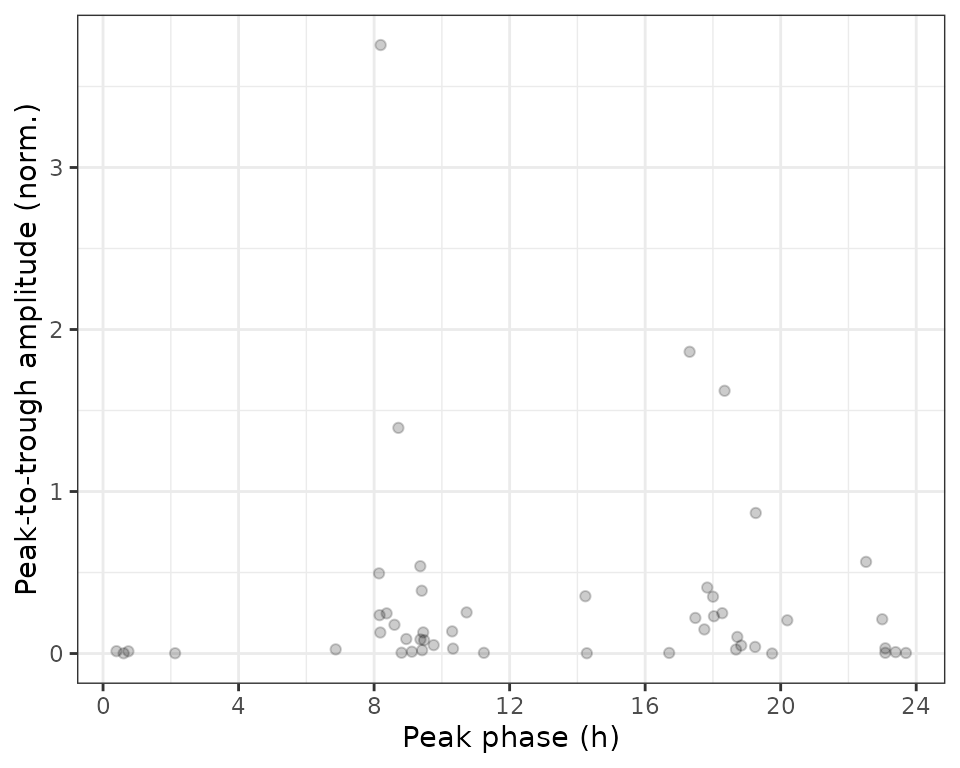
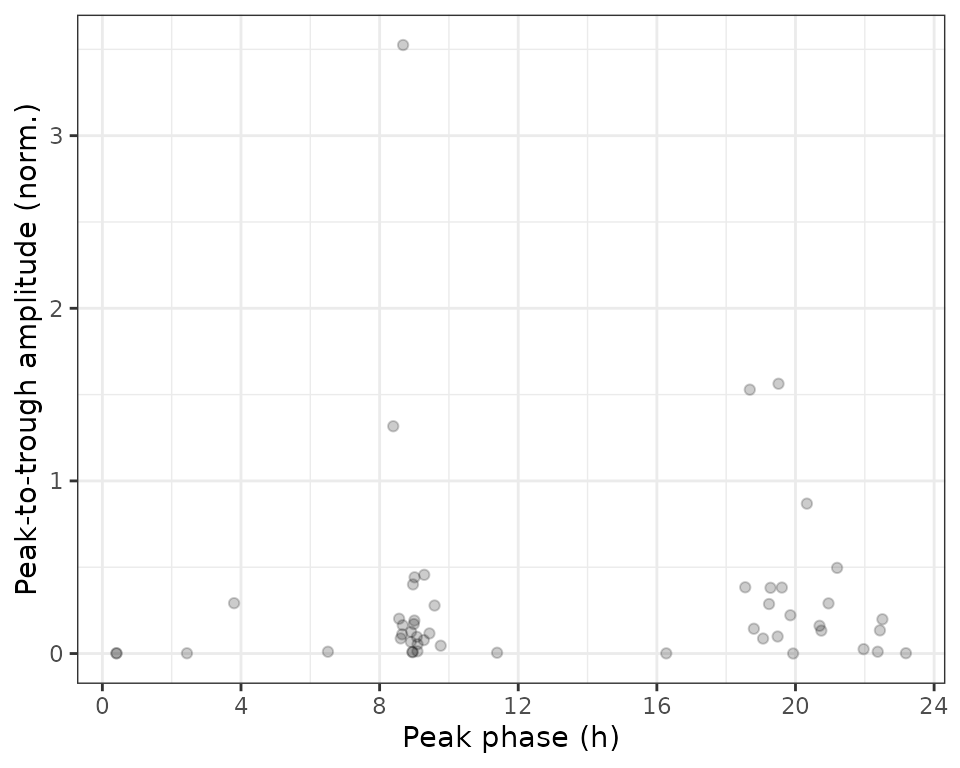
Built site for limorhyde2: 0.0.9@e673907

diff --git a/articles/uncertainty.html b/articles/uncertainty.html
@@ -33,7 +33,7 @@
       </button>
       <span class="navbar-brand">
         <a class="navbar-link" href="../index.html">limorhyde2</a>
-        <span class="version label label-default" data-toggle="tooltip" data-placement="bottom" title="">0.0.8</span>
+        <span class="version label label-default" data-toggle="tooltip" data-placement="bottom" title="">0.0.9</span>
       </span>
     </div>
 
@@ -205,17 +205,17 @@
 <code class="sourceCode R"><span class="va">measFitInts</span> <span class="op">=</span> <span class="fu"><a href="../reference/getExpectedMeasIntervals.html">getExpectedMeasIntervals</a></span><span class="op">(</span><span class="va">measFitSamps</span><span class="op">)</span>
 <span class="fu"><a href="https://rdrr.io/r/base/print.html" class="external-link">print</a></span><span class="op">(</span><span class="va">measFitInts</span>, nrows <span class="op">=</span> <span class="fl">10L</span><span class="op">)</span>
 <span class="co">#&gt;      time      cond feature symbol     lower     upper</span>
-<span class="co">#&gt;   1:    0 wild-type   13170    Dbp  9.264877  9.538147</span>
-<span class="co">#&gt;   2:    0 wild-type   12686 Elovl3 11.712048 11.940182</span>
-<span class="co">#&gt;   3:    0 wild-type   26897  Acot1 11.433505 11.669591</span>
-<span class="co">#&gt;   4:    0  knockout   13170    Dbp 11.808008 12.109973</span>
-<span class="co">#&gt;   5:    0  knockout   12686 Elovl3  9.723500  9.904368</span>
+<span class="co">#&gt;   1:    0 wild-type   13170    Dbp  9.233404  9.565491</span>
+<span class="co">#&gt;   2:    0 wild-type   12686 Elovl3 11.709998 11.951344</span>
+<span class="co">#&gt;   3:    0 wild-type   26897  Acot1 11.422795 11.675348</span>
+<span class="co">#&gt;   4:    0  knockout   13170    Dbp 11.794823 12.124659</span>
+<span class="co">#&gt;   5:    0  knockout   12686 Elovl3  9.707732  9.927886</span>
 <span class="co">#&gt;  ---                                                  </span>
-<span class="co">#&gt; 290:   24 wild-type   12686 Elovl3 11.712048 11.940182</span>
-<span class="co">#&gt; 291:   24 wild-type   26897  Acot1 11.433505 11.669591</span>
-<span class="co">#&gt; 292:   24  knockout   13170    Dbp 11.808008 12.109973</span>
-<span class="co">#&gt; 293:   24  knockout   12686 Elovl3  9.723500  9.904368</span>
-<span class="co">#&gt; 294:   24  knockout   26897  Acot1  9.036087  9.230412</span></code></pre></div>
+<span class="co">#&gt; 290:   24 wild-type   12686 Elovl3 11.709998 11.951344</span>
+<span class="co">#&gt; 291:   24 wild-type   26897  Acot1 11.422795 11.675348</span>
+<span class="co">#&gt; 292:   24  knockout   13170    Dbp 11.794823 12.124659</span>
+<span class="co">#&gt; 293:   24  knockout   12686 Elovl3  9.707732  9.927886</span>
+<span class="co">#&gt; 294:   24  knockout   26897  Acot1  9.008638  9.233237</span></code></pre></div>
 <p>It’s always a good idea to also calculate the posterior mean fitted curves.</p>
 <div class="sourceCode" id="cb7"><pre class="downlit sourceCode r">
 <code class="sourceCode R"><span class="va">measFitMean</span> <span class="op">=</span> <span class="fu"><a href="../reference/getExpectedMeas.html">getExpectedMeas</a></span><span class="op">(</span><span class="va">fit</span>, times <span class="op">=</span> <span class="va">times</span>, features <span class="op">=</span> <span class="va">genes</span><span class="op">$</span><span class="va">id</span><span class="op">)</span>
@@ -313,17 +313,17 @@
 <code class="sourceCode R"><span class="va">rhyStatsInts</span> <span class="op">=</span> <span class="fu"><a href="../reference/getStatsIntervals.html">getStatsIntervals</a></span><span class="op">(</span><span class="va">rhyStatsSamps</span><span class="op">)</span>
 <span class="fu"><a href="https://rdrr.io/r/base/print.html" class="external-link">print</a></span><span class="op">(</span><span class="va">rhyStatsInts</span>, nrows <span class="op">=</span> <span class="fl">10L</span><span class="op">)</span>
 <span class="co">#&gt;          cond feature       statistic      lower      upper</span>
-<span class="co">#&gt;  1: wild-type   13170      peak_value 14.9173520 15.2200466</span>
-<span class="co">#&gt;  2: wild-type   12686      peak_value 11.7151501 11.9406772</span>
-<span class="co">#&gt;  3: wild-type   26897      peak_value 12.2457363 12.5654355</span>
-<span class="co">#&gt;  4:  knockout   13170      peak_value 14.1594493 14.4428868</span>
-<span class="co">#&gt;  5:  knockout   12686      peak_value 10.1737541 10.4395112</span>
+<span class="co">#&gt;  1: wild-type   13170      peak_value 14.8875425 15.2247879</span>
+<span class="co">#&gt;  2: wild-type   12686      peak_value 11.7122222 11.9527091</span>
+<span class="co">#&gt;  3: wild-type   26897      peak_value 12.2431434 12.6095792</span>
+<span class="co">#&gt;  4:  knockout   13170      peak_value 14.1446489 14.4666946</span>
+<span class="co">#&gt;  5:  knockout   12686      peak_value 10.1660549 10.4678090</span>
 <span class="co">#&gt; ---                                                        </span>
-<span class="co">#&gt; 14: wild-type   12686 peak_trough_amp  2.7919175  3.1746157</span>
-<span class="co">#&gt; 15: wild-type   26897 peak_trough_amp  1.3339754  2.0103134</span>
-<span class="co">#&gt; 16:  knockout   13170 peak_trough_amp  2.3729890  2.8259867</span>
-<span class="co">#&gt; 17:  knockout   12686 peak_trough_amp  0.4218476  0.7843328</span>
-<span class="co">#&gt; 18:  knockout   26897 peak_trough_amp  0.3025411  0.6903593</span>
+<span class="co">#&gt; 14: wild-type   12686 peak_trough_amp  2.7583816  3.1961593</span>
+<span class="co">#&gt; 15: wild-type   26897 peak_trough_amp  1.3165677  2.0820149</span>
+<span class="co">#&gt; 16:  knockout   13170 peak_trough_amp  2.3338840  2.8714960</span>
+<span class="co">#&gt; 17:  knockout   12686 peak_trough_amp  0.4053327  0.8133666</span>
+<span class="co">#&gt; 18:  knockout   26897 peak_trough_amp  0.2871294  0.7179791</span>
 
 <span class="va">diffRhyStatsInts</span> <span class="op">=</span> <span class="fu"><a href="../reference/getStatsIntervals.html">getStatsIntervals</a></span><span class="op">(</span><span class="va">diffRhyStatsSamps</span><span class="op">)</span>
 <span class="fu"><a href="https://rdrr.io/r/base/print.html" class="external-link">print</a></span><span class="op">(</span><span class="va">diffRhyStatsInts</span>, nrows <span class="op">=</span> <span class="fl">10L</span><span class="op">)</span>
@@ -331,9 +331,9 @@
 <span class="co">#&gt; 1: wild-type knockout   12686           diff_mesor -0.4215416 -0.4215416</span>
 <span class="co">#&gt; 2: wild-type knockout   13170           diff_mesor  1.1950262  1.1950262</span>
 <span class="co">#&gt; 3: wild-type knockout   26897           diff_mesor -2.4048158 -2.4048158</span>
-<span class="co">#&gt; 4: wild-type knockout   12686 diff_peak_trough_amp -2.6906488 -2.1714818</span>
-<span class="co">#&gt; 5: wild-type knockout   13170 diff_peak_trough_amp -3.7882613 -2.9900856</span>
-<span class="co">#&gt; 6: wild-type knockout   26897 diff_peak_trough_amp -1.5602198 -0.8128997</span></code></pre></div>
+<span class="co">#&gt; 4: wild-type knockout   12686 diff_peak_trough_amp -2.7171127 -2.1598489</span>
+<span class="co">#&gt; 5: wild-type knockout   13170 diff_peak_trough_amp -3.8854777 -2.9242634</span>
+<span class="co">#&gt; 6: wild-type knockout   26897 diff_peak_trough_amp -1.6016674 -0.7528489</span></code></pre></div>
 </div>
   </div>
 

diff --git a/articles/rhythmicity.html b/articles/rhythmicity.html
@@ -33,7 +33,7 @@
       </button>
       <span class="navbar-brand">
         <a class="navbar-link" href="../index.html">limorhyde2</a>
-        <span class="version label label-default" data-toggle="tooltip" data-placement="bottom" title="">0.0.8</span>
+        <span class="version label label-default" data-toggle="tooltip" data-placement="bottom" title="">0.0.9</span>
       </span>
     </div>
 
@@ -181,28 +181,28 @@
 <div class="sourceCode" id="cb6"><pre class="downlit sourceCode r">
 <code class="sourceCode R"><span class="fu"><a href="https://rdrr.io/r/base/print.html" class="external-link">print</a></span><span class="op">(</span><span class="va">rhyStats</span><span class="op">[</span><span class="fu"><a href="https://Rdatatable.gitlab.io/data.table/reference/setorder.html" class="external-link">order</a></span><span class="op">(</span><span class="op">-</span><span class="va">peak_trough_amp</span><span class="op">)</span><span class="op">]</span>, nrows <span class="op">=</span> <span class="fl">10L</span><span class="op">)</span>
 <span class="co">#&gt;       feature peak_phase peak_value trough_phase trough_value peak_trough_amp</span>
-<span class="co">#&gt;  1:     13170  8.1935432  10.402785    23.083237     6.646895    3.7558902049</span>
-<span class="co">#&gt;  2:     13088 17.3125618  10.537264     9.237815     8.674852    1.8624115294</span>
-<span class="co">#&gt;  3:    266645 18.3447383   9.775430     8.906014     8.153673    1.6217570599</span>
-<span class="co">#&gt;  4:     13869  8.7168031   8.585007    18.044704     7.192154    1.3928531097</span>
-<span class="co">#&gt;  5:     68396 19.2644734   9.639321     8.736966     8.771817    0.8675034661</span>
+<span class="co">#&gt;  1:     13170  8.6775145  10.290602    22.346123     6.765579     3.525022206</span>
+<span class="co">#&gt;  2:    266645 19.5106275   9.800471     8.768400     8.237576     1.562895177</span>
+<span class="co">#&gt;  3:     13088 18.6818895  10.412693     9.015083     8.883997     1.528695535</span>
+<span class="co">#&gt;  4:     13869  8.3932348   8.524375    18.785793     7.207670     1.316705132</span>
+<span class="co">#&gt;  5:     68396 20.3289764   9.678209     8.714920     8.809740     0.868468524</span>
 <span class="co">#&gt; ---                                                                          </span>
-<span class="co">#&gt; 46:     14616 23.6961643   5.422345     6.683518     5.418776    0.0035688775</span>
-<span class="co">#&gt; 47:     18994 14.2784936   5.601345    22.177204     5.599508    0.0018374833</span>
-<span class="co">#&gt; 48: 100009600  2.1265901   5.126086     9.417707     5.124330    0.0017555339</span>
-<span class="co">#&gt; 49:     12613  0.6076071   5.049669     8.810137     5.048225    0.0014443188</span>
-<span class="co">#&gt; 50: 115485688 19.7468356   4.235779     1.518992     4.235585    0.0001938504</span>
+<span class="co">#&gt; 46: 100009600  2.4406727   5.125981    18.711851     5.124404     0.001577536</span>
+<span class="co">#&gt; 47:     12613  0.4067764   5.049751     9.355932     5.048220     0.001530589</span>
+<span class="co">#&gt; 48:     14616  0.4067829   5.420731    17.491505     5.419337     0.001394137</span>
+<span class="co">#&gt; 49:     23801 16.2711757   5.371221     9.355932     5.370178     0.001043270</span>
+<span class="co">#&gt; 50: 115485688 19.9322039   4.235861    11.796608     4.235586     0.000275261</span>
 <span class="co">#&gt;        mesor</span>
-<span class="co">#&gt;  1: 8.478881</span>
-<span class="co">#&gt;  2: 9.761782</span>
-<span class="co">#&gt;  3: 9.092473</span>
-<span class="co">#&gt;  4: 7.853253</span>
-<span class="co">#&gt;  5: 9.283822</span>
+<span class="co">#&gt;  1: 8.478849</span>
+<span class="co">#&gt;  2: 9.092471</span>
+<span class="co">#&gt;  3: 9.761742</span>
+<span class="co">#&gt;  4: 7.853238</span>
+<span class="co">#&gt;  5: 9.283828</span>
 <span class="co">#&gt; ---         </span>
-<span class="co">#&gt; 46: 5.420228</span>
-<span class="co">#&gt; 47: 5.600595</span>
-<span class="co">#&gt; 48: 5.125045</span>
-<span class="co">#&gt; 49: 5.048962</span>
+<span class="co">#&gt; 46: 5.125043</span>
+<span class="co">#&gt; 47: 5.048960</span>
+<span class="co">#&gt; 48: 5.420226</span>
+<span class="co">#&gt; 49: 5.370578</span>
 <span class="co">#&gt; 50: 4.235683</span>
 
 <span class="fu"><a href="https://ggplot2.tidyverse.org/reference/ggplot.html" class="external-link">ggplot</a></span><span class="op">(</span><span class="va">rhyStats</span><span class="op">)</span> <span class="op">+</span>
@@ -225,17 +225,17 @@
 <span class="va">measFit</span><span class="op">[</span><span class="va">genes</span>, <span class="va">symbol</span> <span class="op">:=</span> <span class="va">i.symbol</span>, on <span class="op">=</span> <span class="fu">.</span><span class="op">(</span>feature <span class="op">=</span> <span class="va">id</span><span class="op">)</span><span class="op">]</span>
 <span class="fu"><a href="https://rdrr.io/r/base/print.html" class="external-link">print</a></span><span class="op">(</span><span class="va">measFit</span>, nrows <span class="op">=</span> <span class="fl">10L</span><span class="op">)</span>
 <span class="co">#&gt;      time feature     value  symbol</span>
-<span class="co">#&gt;   1:  0.0   13088 10.048449 Cyp2b10</span>
-<span class="co">#&gt;   2:  0.0   13170  6.726346     Dbp</span>
-<span class="co">#&gt;   3:  0.0   13869  7.655222   Erbb4</span>
-<span class="co">#&gt;   4:  0.5   13088 10.057168 Cyp2b10</span>
-<span class="co">#&gt;   5:  0.5   13170  6.841706     Dbp</span>
+<span class="co">#&gt;   1:  0.0   13088 10.146744 Cyp2b10</span>
+<span class="co">#&gt;   2:  0.0   13170  6.949242     Dbp</span>
+<span class="co">#&gt;   3:  0.0   13869  7.631226   Erbb4</span>
+<span class="co">#&gt;   4:  0.5   13088 10.108186 Cyp2b10</span>
+<span class="co">#&gt;   5:  0.5   13170  7.081859     Dbp</span>
 <span class="co">#&gt;  ---                               </span>
-<span class="co">#&gt; 143: 23.5   13170  6.662765     Dbp</span>
-<span class="co">#&gt; 144: 23.5   13869  7.611846   Erbb4</span>
-<span class="co">#&gt; 145: 24.0   13088 10.048449 Cyp2b10</span>
-<span class="co">#&gt; 146: 24.0   13170  6.726346     Dbp</span>
-<span class="co">#&gt; 147: 24.0   13869  7.655222   Erbb4</span></code></pre></div>
+<span class="co">#&gt; 143: 23.5   13170  6.853361     Dbp</span>
+<span class="co">#&gt; 144: 23.5   13869  7.570816   Erbb4</span>
+<span class="co">#&gt; 145: 24.0   13088 10.146744 Cyp2b10</span>
+<span class="co">#&gt; 146: 24.0   13170  6.949242     Dbp</span>
+<span class="co">#&gt; 147: 24.0   13869  7.631226   Erbb4</span></code></pre></div>
 <p>Next we combine the observed expression data and metadata. The curves show how <code>limorhyde2</code> is able to fit non-sinusoidal rhythms.</p>
 <div class="sourceCode" id="cb8"><pre class="downlit sourceCode r">
 <code class="sourceCode R"><span class="va">measObs</span> <span class="op">=</span> <span class="fu"><a href="../reference/mergeMeasMeta.html">mergeMeasMeta</a></span><span class="op">(</span><span class="va">y</span>, <span class="va">metadata</span>, features <span class="op">=</span> <span class="va">genes</span><span class="op">$</span><span class="va">id</span><span class="op">)</span>

diff --git a/reference/getModelFit.html b/reference/getModelFit.html
@@ -18,7 +18,7 @@ moderate the fits using getPosteriorFit()."><!-- mathjax --><script src="https:/
       </button>
       <span class="navbar-brand">
         <a class="navbar-link" href="../index.html">limorhyde2</a>
-        <span class="version label label-default" data-toggle="tooltip" data-placement="bottom" title="">0.0.8</span>
+        <span class="version label label-default" data-toggle="tooltip" data-placement="bottom" title="">0.0.9</span>
       </span>
     </div>
 
@@ -78,7 +78,9 @@ moderate the fits using <code><a href="getPosteriorFit.html">getPosteriorFit()</
   <span class="va">y</span>,
   <span class="va">metadata</span>,
   period <span class="op">=</span> <span class="fl">24</span>,
-  nKnots <span class="op">=</span> <span class="fl">4L</span>,
+  nKnots <span class="op">=</span> <span class="fl">3L</span>,
+  degree <span class="op">=</span> <span class="kw">if</span> <span class="op">(</span><span class="va">nKnots</span> <span class="op">&gt;</span> <span class="fl">2</span><span class="op">)</span> <span class="fl">3L</span> <span class="kw">else</span> <span class="fl">2L</span>,
+  sinusoid <span class="op">=</span> <span class="cn">FALSE</span>,
   timeColname <span class="op">=</span> <span class="st">"time"</span>,
   condColname <span class="op">=</span> <span class="cn">NULL</span>,
   covarColnames <span class="op">=</span> <span class="cn">NULL</span>,
@@ -106,8 +108,13 @@ names are ignored.</p></dd>
 units as the values in the <code>timeColname</code> column.</p></dd>
 <dt>nKnots</dt>
 <dd><p>Number of internal knots for the periodic spline for the time
-variable. Use <code>NULL</code> to fit a cosinor-based model instead of a spline-based
-model.</p></dd>
+variable.</p></dd>
+<dt>degree</dt>
+<dd><p>Integer indicating degree of the piecewise polynomial for the
+spline.</p></dd>
+<dt>sinusoid</dt>
+<dd><p>Logical indicating whether to fit a cosinor-based model
+instead of a spline-based model.</p></dd>
 <dt>timeColname</dt>
 <dd><p>String indicating the column in <code>metadata</code> containing the
 time at which each sample was acquired.</p></dd>
@@ -154,7 +161,9 @@ for each shifted model.</p></li>
 <li><p><code>period</code>: As supplied above.</p></li>
 <li><p><code>conds</code>: If <code>condColname</code> is not <code>NULL</code>, a vector of unique values of
 the condition variable.</p></li>
-<li><p><code>nKnots</code>: Number of knots, where 2 indicates a cosinor-based model.</p></li>
+<li><p><code>nKnots</code>: Number of knots.</p></li>
+<li><p><code>degree</code>: As supplied above.</p></li>
+<li><p><code>sinusoid</code>: As supplied above.</p></li>
 <li><p><code>nConds</code>: Number of conditions.</p></li>
 <li><p><code>nCovs</code>: Number of covariates.</p></li>
 <li><p><code>lmFits</code>: If <code>keepLmFits</code> is <code>TRUE</code>, a list of objects from <code>limma</code> or

diff --git a/reference/getExpectedMeasIntervals.html b/reference/getExpectedMeasIntervals.html
@@ -18,7 +18,7 @@ expected measurements from fitted models."><!-- mathjax --><script src="https://
       </button>
       <span class="navbar-brand">
         <a class="navbar-link" href="../index.html">limorhyde2</a>
-        <span class="version label label-default" data-toggle="tooltip" data-placement="bottom" title="">0.0.8</span>
+        <span class="version label label-default" data-toggle="tooltip" data-placement="bottom" title="">0.0.9</span>
       </span>
     </div>
 
@@ -74,7 +74,7 @@ expected measurements from fitted models.</p>
     </div>
 
     <div id="ref-usage">
-    <div class="sourceCode"><pre class="sourceCode r"><code><span class="fu">getExpectedMeasIntervals</span><span class="op">(</span><span class="va">expectedMeas</span>, mass <span class="op">=</span> <span class="fl">0.9</span>, method <span class="op">=</span> <span class="fu"><a href="https://rdrr.io/r/base/c.html" class="external-link">c</a></span><span class="op">(</span><span class="st">"eti"</span>, <span class="st">"hdi"</span><span class="op">)</span><span class="op">)</span></code></pre></div>
+    <div class="sourceCode"><pre class="sourceCode r"><code><span class="fu">getExpectedMeasIntervals</span><span class="op">(</span><span class="va">expectedMeas</span>, mass <span class="op">=</span> <span class="fl">0.95</span>, method <span class="op">=</span> <span class="fu"><a href="https://rdrr.io/r/base/c.html" class="external-link">c</a></span><span class="op">(</span><span class="st">"eti"</span>, <span class="st">"hdi"</span><span class="op">)</span><span class="op">)</span></code></pre></div>
     </div>
 
     <div id="arguments">

diff --git a/reference/getStatsIntervals.html b/reference/getStatsIntervals.html
@@ -18,7 +18,7 @@ properties of fitted curves."><!-- mathjax --><script src="https://cdnjs.cloudfl
       </button>
       <span class="navbar-brand">
         <a class="navbar-link" href="../index.html">limorhyde2</a>
-        <span class="version label label-default" data-toggle="tooltip" data-placement="bottom" title="">0.0.8</span>
+        <span class="version label label-default" data-toggle="tooltip" data-placement="bottom" title="">0.0.9</span>
       </span>
     </div>
 
@@ -74,7 +74,7 @@ properties of fitted curves.</p>
     </div>
 
     <div id="ref-usage">
-    <div class="sourceCode"><pre class="sourceCode r"><code><span class="fu">getStatsIntervals</span><span class="op">(</span><span class="va">posteriorStats</span>, mass <span class="op">=</span> <span class="fl">0.9</span>, method <span class="op">=</span> <span class="fu"><a href="https://rdrr.io/r/base/c.html" class="external-link">c</a></span><span class="op">(</span><span class="st">"eti"</span>, <span class="st">"hdi"</span><span class="op">)</span><span class="op">)</span></code></pre></div>
+    <div class="sourceCode"><pre class="sourceCode r"><code><span class="fu">getStatsIntervals</span><span class="op">(</span><span class="va">posteriorStats</span>, mass <span class="op">=</span> <span class="fl">0.95</span>, method <span class="op">=</span> <span class="fu"><a href="https://rdrr.io/r/base/c.html" class="external-link">c</a></span><span class="op">(</span><span class="st">"eti"</span>, <span class="st">"hdi"</span><span class="op">)</span><span class="op">)</span></code></pre></div>
     </div>
 
     <div id="arguments">

diff --git a/news/index.html b/news/index.html
@@ -17,7 +17,7 @@
       </button>
       <span class="navbar-brand">
         <a class="navbar-link" href="../index.html">limorhyde2</a>
-        <span class="version label label-default" data-toggle="tooltip" data-placement="bottom" title="">0.0.8</span>
+        <span class="version label label-default" data-toggle="tooltip" data-placement="bottom" title="">0.0.9</span>
       </span>
     </div>
 
@@ -66,6 +66,10 @@
       <small>Source: <a href="https://github.com/hugheylab/limorhyde2/blob/HEAD/NEWS.md" class="external-link"><code>NEWS.md</code></a></small>
     </div>
 
+    <div class="section level2">
+<h2 class="page-header" data-toc-text="0.0.9" id="limorhyde2-009">limorhyde2 0.0.9<a class="anchor" aria-label="anchor" href="#limorhyde2-009"></a></h2>
+<ul><li>Enabled spline fit with fewer knots and customizable degree.</li>
+</ul></div>
     <div class="section level2">
 <h2 class="page-header" data-toc-text="0.0.8" id="limorhyde2-008">limorhyde2 0.0.8<a class="anchor" aria-label="anchor" href="#limorhyde2-008"></a></h2>
 <ul><li>Matched style to lab standard.</li>

diff --git a/reference/GSE34018.html b/reference/GSE34018.html
@@ -21,7 +21,7 @@ to use limorhyde2."><!-- mathjax --><script src="https://cdnjs.cloudflare.com/aj
       </button>
       <span class="navbar-brand">
         <a class="navbar-link" href="../index.html">limorhyde2</a>
-        <span class="version label label-default" data-toggle="tooltip" data-placement="bottom" title="">0.0.8</span>
+        <span class="version label label-default" data-toggle="tooltip" data-placement="bottom" title="">0.0.9</span>
       </span>
     </div>
 

diff --git a/reference/GSE54650.html b/reference/GSE54650.html
@@ -20,7 +20,7 @@ useful for examples of how to use limorhyde2."><!-- mathjax --><script src="http
       </button>
       <span class="navbar-brand">
         <a class="navbar-link" href="../index.html">limorhyde2</a>
-        <span class="version label label-default" data-toggle="tooltip" data-placement="bottom" title="">0.0.8</span>
+        <span class="version label label-default" data-toggle="tooltip" data-placement="bottom" title="">0.0.9</span>
       </span>
     </div>
 

diff --git a/reference/getDiffRhythmStats.html b/reference/getDiffRhythmStats.html
@@ -18,7 +18,7 @@ given pair of conditions."><!-- mathjax --><script src="https://cdnjs.cloudflare
       </button>
       <span class="navbar-brand">
         <a class="navbar-link" href="../index.html">limorhyde2</a>
-        <span class="version label label-default" data-toggle="tooltip" data-placement="bottom" title="">0.0.8</span>
+        <span class="version label label-default" data-toggle="tooltip" data-placement="bottom" title="">0.0.9</span>
       </span>
     </div>
 

diff --git a/reference/getExpectedMeas.html b/reference/getExpectedMeas.html
@@ -19,7 +19,7 @@ conditions and covariates (if they exist)."><!-- mathjax --><script src="https:/
       </button>
       <span class="navbar-brand">
         <a class="navbar-link" href="../index.html">limorhyde2</a>
-        <span class="version label label-default" data-toggle="tooltip" data-placement="bottom" title="">0.0.8</span>
+        <span class="version label label-default" data-toggle="tooltip" data-placement="bottom" title="">0.0.9</span>
       </span>
     </div>
 

diff --git a/reference/getPosteriorFit.html b/reference/getPosteriorFit.html
@@ -22,7 +22,7 @@ you know what you're doing."><!-- mathjax --><script src="https://cdnjs.cloudfla
       </button>
       <span class="navbar-brand">
         <a class="navbar-link" href="../index.html">limorhyde2</a>
-        <span class="version label label-default" data-toggle="tooltip" data-placement="bottom" title="">0.0.8</span>
+        <span class="version label label-default" data-toggle="tooltip" data-placement="bottom" title="">0.0.9</span>
       </span>
     </div>
 

diff --git a/reference/getPosteriorSamples.html b/reference/getPosteriorSamples.html
@@ -19,7 +19,7 @@ statistics. The function calls mashr::mash_compute_posterior_matrices()."><!-- m
       </button>
       <span class="navbar-brand">
         <a class="navbar-link" href="../index.html">limorhyde2</a>
-        <span class="version label label-default" data-toggle="tooltip" data-placement="bottom" title="">0.0.8</span>
+        <span class="version label label-default" data-toggle="tooltip" data-placement="bottom" title="">0.0.9</span>
       </span>
     </div>
 
